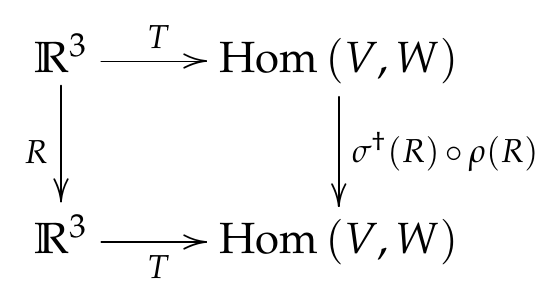
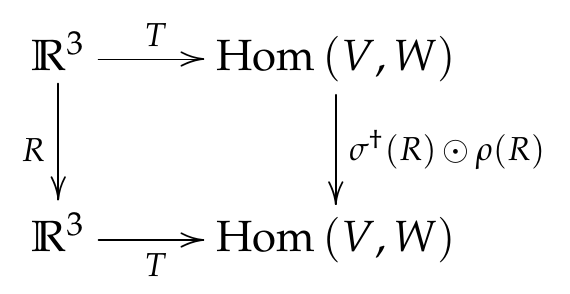
blog post updated

diff --git a/_posts/2019-09-15-operator-harmonic-analysis.md b/_posts/2019-09-15-operator-harmonic-analysis.md
@@ -12,13 +12,13 @@ tags:
 
 *Representation theory is Fourier analysis* (substantially generalized). Given a representation $V$ of a group $G$, it decomposes (under some assumptions on $G$ and $V$) into a direct sum of irreducible parts
 $$V \underset{G}{\cong} \bigoplus_j \bigoplus^{n_j} V_j $$
-with $n_j$ copies of each isomorphic irreducible representation (*irrep*) $V_j$. The canonical Fourier analysis is such a decomposition when the left hand side is the group algebra (introduced below) of $\R$ or $\SO(2) \cong \U(1)$ (for periodic functions) and can be generalized to a large class of groups.
+with $n_j$ copies of each isomorphic irreducible representation (*irrep*) $V_j$. The canonical Fourier analysis is such a decomposition when the left hand side is the group algebra (to be introduced below) of $\R$ or $\SO(2) \cong \U(1)$ (for periodic functions) and can be generalized to a large class of groups.
 
-In this post, I want to talk about the decomposition of representations of the form $\End V = V^* \otimes V$, that is, linear operators over $V$, and in cases that $V$ is described more explicitly such as $V$ being a symmetric power $\Sym^k W$ of the defining representation of [classical groups](https://en.wikipedia.org/wiki/Classical_group#The_classical_groups) $A_n,B_n,C_n,D_n$. The decomposition of $\End V$ in the generic form (1) might very loosely count as a "Fourier analysis" but I will be more ambitious and try to relate such decomposition to actual Fourier analysis, more precisely the decomposition of functions on a space equipped with a $G$-action. As a teaser, for $\SO(3)$ we have that
+In this post, I want to talk about the decomposition of representations of the form $\End V = V^* \otimes V$, the space of linear operators over $V$, especially when $V$ is a symmetric power $\Sym^k W$ of some irrep of [the classical groups](https://en.wikipedia.org/wiki/Classical_group#The_classical_groups) $A_n,B_n,C_n,D_n$. The decomposition of $\End V$ in the generic form (1) might very loosely count as a "Fourier analysis" but I will be more ambitious and find a decomposition that is as similar as possible to the canonical Fourier analysis (but now with non-abelian groups). In particular, there will be a space $X$ with symmetry group $G$ such that the space of functions on $X$ decomposes as $G$-representations *without multiplicity*, that is, $n_j$ is either 0 or 1. As a teaser, for $\SO(3)$ we have that
 $$\begin{align}
-  \lim_{k\to\infty}\End (\Sym^k V) \underset{\SO(3)}{\cong} \bigoplus_{j=0}^{\infty} V_{2j+1},
+  \lim_{k\to\infty}\End (V_{2k+1}) \underset{\SO(3)}{\cong} \bigoplus_{j=0}^{\infty} V_{2j+1} \cong L^2(S^2),
 \end{align}$$
-where the right hand side contains *all* [spherical harmonics](https://en.wikipedia.org/wiki/Spherical_harmonics) without redundancy.
+where $V_{2j+1}$ is the unique $(2j+1)$-dimensional ("spin-$j$") irrep of $\SO(3)$. The point is that the space of linear operators on the left contains *all* [spherical harmonics](https://en.wikipedia.org/wiki/Spherical_harmonics) without redundancy, and thus can be identified with the space of (square-integrable) functions on the sphere $S^2$ on the right.
 
 <div id="toc"></div>
 
@@ -26,9 +26,9 @@ where the right hand side contains *all* [spherical harmonics](https://en.wikipe
 
 ## Morphisms
 
-The standard way to introduce a representation of a group $G$ is as a pair $(\rho,V)$ of a vector space $V$ and a group homomorphism $\rho: G \to \GL(V)$. That is, for $g_1,g_2 \in G$, $\rho(g_1)$ and $\rho(g_2)$ are invertible matrices over a vector space $V$ such that the group structure is respected: $\rho(g_1)\rho(g_2) = \rho(g_1 g_2)$. Group homomorphisms are examples of ubiquitous structure-preserving maps or *morphisms* between mathematical objects. Morphisms for sets are arbitrary (total i.e. defined for all inputs) maps between sets. For vector spaces, we have linear operators. Of course, not only algebraic objects have morphisms. For example, for topological spaces and smooth manifolds, we have continuous maps and smooth maps respectively. (In particular, [homeomorphisms](https://en.wikipedia.org/wiki/Homeomorphism) are isomorphisms between topological spaces, and [diffeomorphisms](https://en.wikipedia.org/wiki/Diffeomorphism) are isomorphisms between smooth manifolds.)
+The standard way to introduce a representation of a group $G$ is as a pair $(\rho,V)$ of a vector space $V$ and a group homomorphism $\rho: G \to \GL(V)$. That is, for $g_1,g_2 \in G$, $\rho(g_1)$ and $\rho(g_2)$ are invertible matrices over a vector space $V$ such that the group structure is respected: $\rho(g_1)\rho(g_2) = \rho(g_1 g_2)$. Group homomorphisms are examples of ubiquitous structure-preserving maps or *morphisms* between mathematical objects. Morphisms for sets are arbitrary functions (total i.e. defined for all inputs) between sets. For vector spaces, we have linear operators. Of course, not only algebraic objects have morphisms. For example, for topological spaces and smooth manifolds, we have continuous maps and smooth maps respectively. (In particular, [homeomorphisms](https://en.wikipedia.org/wiki/Homeomorphism) are isomorphisms between topological spaces, and [diffeomorphisms](https://en.wikipedia.org/wiki/Diffeomorphism) are isomorphisms between smooth manifolds.)
 
-Once we have objects and morphisms, we have a *category*. Formally, a **category** $\mathcal{C}$ is a class of objects and morphisms between them such that there is an identity morphism $1\circ f = f\circ 1 = f$ and the composition of morphisms is associative: $(f \circ g) \circ h = f\ \circ (g \circ h)$. It should be emphasized that all the information contained in the definition is about morphisms; the objects can be anything. The lesson here is that morphisms are as important, if not more, than the objects we want to study. What would be the morphisms in a category of $G$-representations? They are *$G$-equivariant maps* or *intertwiners*. Let $(\rho,V)$ and $(\sigma,W)$ be $G$-representations. A linear map $\varphi:V\to W$ is **$G$-equivariant** if it does not matter if one applies the transformation $g$ on the vector space first or $\varphi$ first. That is, $\varphi\circ\rho(g) = \sigma(g)\circ\varphi$ for all $g \in G$. Pictorially, we say that the following diagram "commutes".
+Once we have objects and morphisms, we have a *category*. Formally, a **category** $\mathcal{C}$ is a class [^1] of objects and morphisms between them such that there is an identity morphism $1\circ f = f\circ 1 = f$ and the composition of morphisms is associative: $(f \circ g) \circ h = f\ \circ (g \circ h)$. It should be emphasized that all the information contained in the definition is about morphisms; the objects can be anything. The lesson here is that morphisms are as important, if not more, than the objects we want to study. What would be the morphisms in a category of $G$-representations? They are *$G$-equivariant maps* or *intertwiners*. Let $(\rho,V)$ and $(\sigma,W)$ be $G$-representations. A linear map $\varphi:V\to W$ is **$G$-equivariant** if it does not matter if one applies the transformation $g$ on the vector space first or $\varphi$ first. That is, $\varphi\circ\rho(g) = \sigma(g)\circ\varphi$ for all $g \in G$. Pictorially, we say that the following diagram "commutes".
 <center>
 <img src="/assets/img/2019/intertwiner.PNG" style="width: 250px;"/>
 </center>
@@ -45,11 +45,11 @@ $$\begin{align}
   (rs)m &= r(sm), \\
   r(m+n) &= rm + rn,
 \end{align}$$
-for all $r,s \in R$ and $m,n \in M$. Now the ring $k[G]$ is the matrix ring formally spanned by $g \in G$ over a field $k$ with the convolution product * inherited from the group multiplication:
+for all $r,s \in R$ and $m,n \in M$. A right $R$-module is similarly defined but with the multiplication from the right. Left and right $R$-modules may not coincide if $R$ is a not commutative.  Now the ring $k[G]$ is the matrix ring formally spanned by $g \in G$ over a field $k$ with the convolution product * inherited from the group multiplication:
 $$\begin{align}
   \left(\sum_{g_1}f_{g_1} g_1 \right) * \left(\sum_{g_2}h_{g_2} g_2 \right) = \sum_{g_1,g} f_{g_1} h_{g_1^{-1}g} g.
 \end{align}$$
- In fact, it is not just a ring but also an algebra (because it is a vector space) called the **group algebra**. Given a $G$-representation, the span of $\rho(g)$ gives a $k[G]$-module. Conversely, given a $k[G]$-module, there is a vector space $V$ over $k$ (because $k\id \in k[G]$), on which the $G$-action gives a group homomorphism $G \to \GL(V)$, that is, a representation. In this language, intertwiners are linear maps that commute with multiplication by scalars in $k[G]$. In other words, they are simply *$k[G]$-linear maps*, generalizing the fact that linear operators (all of which commute with the scalars) are morphisms in the category of vector spaces.
+ In fact, $k[G]$ is not just a ring but also an algebra (because it is a vector space) called the **group algebra**. Given a $G$-representation, the span of $\rho(g)$ gives a $k[G]$-module. Conversely, given a $k[G]$-module, there is a vector space $V$ over $k$ (because $k\id \in k[G]$), on which the $G$-action gives a group homomorphism $G \to \GL(V)$, that is, a representation. In this language, intertwiners are linear maps that commute with multiplication by scalars in $k[G]$. In other words, they are simply *$k[G]$-linear maps*, generalizing the fact that linear operators (all of which commute with the scalars) are morphisms in the category of vector spaces.
 
 ### Schur's lemma
 
@@ -58,11 +58,11 @@ Intertwiners between irreps are completely characterized by **Schur's lemma**, a
 **Lemma 1.** (Schur's lemma)
 
 - (Burnside) *Every intertwiner between irreps is either an isomorphism or zero.*
-- (Schur) *For $k$ algebraically closed, every intertwiner is of the form $k\id$. That is, $\End_G(V) = k$.* [^1]
+- (Schur) *For $k$ algebraically closed, every intertwiner is of the form $k\id$. That is, $\End_G(V) = k$.* [^2]
 
 It can summarized as follows: when $k$ is algebraically-closed, intertwiners between irreps behave like the Kronecker delta
 $$\begin{align}
-  \dim\Hom_G(V,W) \cong
+  \dim\Hom_G(V,W) =
   \begin{cases}
     1, V \cong W, \\
     0, V \not\cong W.
@@ -73,7 +73,7 @@ $$\begin{align}
 ### The meaning of tensor operators
 <!-- It will be convenient to use a more sophisticated definition later on (namely $G$-representations as $K[G]$-modules). To understand mathematical objects, we need to understand structure-preserving maps or *morphisms* between them.-->
 
-I claim that one does not really understand the concept of [tensor operators](https://en.wikipedia.org/wiki/Tensor_operator) in physics until one understands intertwiners. Why? Because *tensor operators are, by definition, intertwiners*. This can be seen by unpacking the seemingly circular definition of tensor operators as "operators that act like tensors". For concreteness, let us think about one of the simplest non-trivial cases of a *vector operator*. Let $(R,\R^3)$ be the defining representation of $\SO(3)$ and $\mathbf{r} \in \R^3$. A **vector operator** $T(\mathbf{r})$ has components $T_j \coloneqq T(\mathbf{r}_j):V\to W, j=1,2,3$ that are linear maps between irreps $(\rho,V),(\sigma,W)$ of $\SO(3)$ (that is, $T_j \in\Hom(V,W) = V^* \otimes W$) such that the $G$-action on $\Hom(V,W)$ (a superoperator $\sigma\dgg(R) \circ \rho(R)$) induces a rotation of $\mathbf{r}$: [^2]
+I claim that one does not really understand the concept of [tensor operators](https://en.wikipedia.org/wiki/Tensor_operator) in physics until one understands intertwiners. Why? Because *tensor operators are, by definition, intertwiners*. This can be seen by unpacking the seemingly circular definition of tensor operators as "operators that act like tensors". For concreteness, let us think about one of the simplest non-trivial cases of a *vector operator*. Let $(R,\R^3)$ be the defining representation of $\SO(3)$ and $\mathbf{r} \in \R^3$. A **vector operator** $T(\mathbf{r})$ has components $T_j \coloneqq T(\mathbf{r}_j):V\to W, j=1,2,3$ that are linear maps between irreps $(\rho,V),(\sigma,W)$ of $\SO(3)$ (that is, $T_j \in\Hom(V,W) = V^* \otimes W$) such that the $G$-action on $\Hom(V,W)$ (a superoperator $\sigma\dgg(R) \odot \rho(R)$ where $\odot$ is a placeholder for the argument) induces a rotation of $\mathbf{r}$: [^3]
 $$\begin{align}
   \sigma\dgg(R)T(\mathbf{r}_j)\rho(R) = R_j{}^k T(\mathbf{r}_k).
 \end{align}$$
@@ -86,34 +86,171 @@ one can see that $T$ is nothing but a linear map that makes the following diagra
 <img src="/assets/img/2019/wigner-eckart.PNG" style="width: 300px;"/>
 </center>
 
-By Schur's lemma, $T$ is an isomorphism between $(R,\R^3)$ and its copy within $\Hom(V,W)$ (if the latter exists). [^3] This justifies how we label the components of the image $T_j$ in the same way we label the components of a vector $\mathbf{r} \in \R^3$. More generally, $\R^3$ can be replaced by any
+By the first part of Schur's lemma, $T$ is an isomorphism between $(R,\R^3)$ and its copy within $\Hom(V,W)$ (if the latter exists). [^4] This justifies labeling the components of the image $T_j$ in the same way as labeling the components of a vector $\mathbf{r} \in \R^3$. More generally, $\R^3$ can be replaced by any
 irrep $U$ of $\SO(3)$.
 
-Does anyone remember what [the Wigner-Eckart theorem](https://en.wikipedia.org/wiki/Wigner%E2%80%93Eckart_theorem) says in the form usually taught in a quantum mechanics class? Not me. But the Wigner-Eckart theorem is simply Schur's lemma applied to the intertwiners between $U$ and $\Hom(V,W)$; the basis-independence of the "reduced matrix element" is just the statement that the tensor operator is proportional to the identity $T = c\id$ (because it commutes with every $G$-action because it is $G$-equivariant) in the block isomorphic to the irrep $U$.
+The second part of Schur's lemma gives the celebrated [Wigner-Eckart theorem](https://en.wikipedia.org/wiki/Wigner%E2%80%93Eckart_theorem).
+Does anyone remember what the theorem says in the form usually taught in a quantum mechanics class? Not me. But by recognizing tensor operators as intertwiners, the theorem is simply the second part of Schur's lemma for intertwiners between $U$ and $\Hom(V,W)$; the basis-independence of the "reduced matrix element" $\av{j',m'||T_k||j,m}$ is just the statement that the tensor operator is proportional to the identity $T = c\id$ (because it commutes with every $G$-action because it is $G$-equivariant) in the block isomorphic to the irrep $U$.
 
-For us, a generalization of *spherical tensor operators* will prove convenient to provide a *weight* (of a Lie algebra)-operator basis for the space of linear operators.
+For us, a generalization of *spherical tensor operators* will prove convenient to provide a Lie-algebraic *weight*-operator (analogous to a weight vector) basis for the space of linear operators.
 
 ## Functors
 
-### The restriction functor
+Given a representation of $G$, we can always restrict it to a representation of a subgroup $H \subset G$. What about the inverse process of constructing a $G$-representation out of an arbitrary $H$-representation? The language of categories and modules will prove useful here. Restriction is a *functor* from the category of $G$-representations to the category of $H$-representations. Given categories $\mathcal C$ and $\mathcal D$, a **(covariant) functor** $\mathcal{F}:\mathcal C\to \mathcal D$ assigns to every object in $\mathcal C$ an object in $\mathcal D$ and to every morphism in $\mathcal C$ a morphism in $\mathcal D$:
+$$\begin{align}
+  \mathcal{F}:\Hom_{\mathcal C}(A,B) \to \Hom_{\mathcal D}(\mathcal{F}(A),\mathcal{F}(B)),
+\end{align}$$
+where $A,B\in\mathcal C$,
+such that the identity and the composition is preserved:
+$$\begin{align}
+  \mathcal{F}(1_{\mathcal C}) &= 1_{\mathcal D}, \\
+  \mathcal{F}(f\circ g) &= \mathcal{F}(f) \circ \mathcal{F}(g).
+\end{align}$$
+Restriction belongs to a simple kind of functors, *forgetful functors* that simply forget information, in this case the structure of $G$. Restriction therefore cannot have a strict inverse. An insight from the category viewpoint is that we can construct the induction functor as a kind of "weak inverse" to the restriction functor called an *adjoint*. More precisely, there is a left adjoint
+$$\begin{align}
+  \Hom_G(\textrm{Ind}\,V,W) \cong \Hom_H(V,\textrm{Res}\,W)
+\end{align}$$
+and a right adjoint
+$$\begin{align}
+  \Hom_G(,V,\textrm{Ind}\W) \cong \Hom_H(\textrm{Res}\,V,W)
+\end{align}$$
+to the restriction functor. [^5] Further, we will see that the distinction between the left and the right adjoint comes precisely from the choice to think of $k[G]$ either as a $(k[G],k[H])$-bi-module or a $(k[H],k[G])$-bi-module.
 
-The reason for introducing $G$-representations as a category is that now I can talk about maps between categories: *functors*.
+hese relationships (14,15), which are so important they have a name: [Frobenius reciprocity](https://en.wikipedia.org/wiki/Frobenius_reciprocity), *define* what the induction is. They are the raison d'être of induced representations.
 
-### Adjoint functors
+<!-- There are only two universal properties: that of being initial and terminal. This translates to the usual way of presenting universal properties in terms of commutative diagrams when one realizes that commutative diagrams are morphisms in a category of morphisms e.g. "[slice category](https://en.wikipedia.org/wiki/Comma_category#Slice_category)".-->
 
-[preorder](https://en.wikipedia.org/wiki/Preorder) [^1], a category with only one morphism $x\to y$, which can be though of as a comparison $x\le y$. For example, the product in this category is the infimum and the coproduct is the supremum. A functor between two preorders $A$ and $B$ is a *monotone function* if it is an order-preserving map
-$$ x \le_A y \implies f(x) \le_B f(b). $$
-A pair of monotone functions $f$ and $G$ is an *adjoint pair* if they satisfy the *Galois connection*:
-$$ f(a) \le_B b \iff a \le_A g(b). $$
-Suppose, for instance, that $A = B = \mathbb{N}$, the natural numbers. The monotone function $x \to 2x$ has no inverse but it does have right and left adjoints: the ceiling $\lceil x/2 \rceil$ and the floor $\lfloor x/2 \rfloor$ respectively. The notion of Galois connection generalizes to that of [adjunction](https://en.wikipedia.org/wiki/Adjoint_functors), an example of which in re
+### The simplest adjoint functor
 
-### Tensor-Hom adjunction
+What does an adjoint functor look like in a category with *only one* morphism? Such a morphism $x\to y$ can be though of as a comparison $x\le y$, a [preorder](https://en.wikipedia.org/wiki/Preorder) if you will [^6]. (I learned this example from John Baez' online [Applied Category Theory Course](https://johncarlosbaez.wordpress.com/2018/04/07/applied-category-theory-course-part-2/).) A functor between two preorders $\mathcal C$ and $\mathcal D$ is a *monotone function* if it is order-preserving:
+$$ a \le_{\mathcal C} b \implies f(a) \le_{\mathcal D} f(b). $$
+A pair of monotone functions $f$ and $g$ is an *adjoint pair* if there is a one-to-one correspondence, the *Galois connection*
+$$ f(a) \le_{\mathcal D} x \iff a \le_{\mathcal C} g(x). $$
+Suppose, for instance, that $\mathcal A = \mathcal B = \mathbb{N}$, the natural numbers. The monotone function $x \to 2x$ has no strict inverse because $y/2$ may not be an integer, but it does have right and left adjoints: the ceiling $\lceil x/2 \rceil$ and the floor $\lfloor x/2 \rfloor$ respectively. (Verify.) In this case, we got a one-to-one correspondence between the morphism in $\mathcal C$ and the morphism in $\mathcal D$. The Galois connection generalizes to the adjunction.
 
-Given a group $G$ and its subgroup $H\subset G$, any representation $V$ of $G$ can be restricted to $V\bigr|{}_H$ of $H$. (Restriction of an irrep is not necessarily irreducible. Think of the restriction to an abelian $H$.)
+### Adjoint to a forgetful functor
 
-### The induction functor
+Many useful constructions, like those of induced representations, are adjoint functors to a forgetful functor. The **free functor** $\mathcal F:$ **Set** $\to$ **Grp** sending a set to its "[free group](https://en.wikipedia.org/wiki/Free_group)". Given a set $S$, $\mathcal F(S)$ is the set of all expressions that can be composed from elements of $S$: every power and inverse of each and every element and (noncommutative) products of them; it is the least constrained group that can be built from elements of $S$ as generators. The categorical way to say this is that the free functor has the universal property that giving a map $\sigma$ from $S$ to some group $G$ is equivalent to giving a unique group homomorphism $\varphi$ from the free group $F(S)$ to $G$. (The empty set gives the trivial group.)
+<center>
+<img src="/assets/img/posts/01-2017/free-group.png" style="width: 200px;"/>
+</center>
+<!-- \begin{align}
+	\xymatrix{
+      S \ar[r]\ar[dr]_{\sigma} & F(S) \ar[d]^{\varphi} \\
+      & G
+	}
+\end{align} -->
 
-### As a free functor
+The free functor sends an object in **Set** to an object in **Grp**, and the forgetful functor sends an object in **Grp** to an object in **Set**. But their composition is not the identity map. Nevertheless, they are a kind of generalized inverses in the sense formalized in the notion of an adjoint functor.
+
+Functors $F: \mathcal{C} \to \mathcal{D}$ and $G: \mathcal{D} \to \mathcal{C}$ are **adjoint functors** if for any $X \in \mathcal{C}$ and $Y \in \mathcal{D}$, there is an [isomorphism](https://en.wikipedia.org/wiki/Adjoint_functors#Hom-set_adjunction)
+$$ \begin{aligned}
+\mathrm{Hom}_{\mathcal{D}} (F(X),Y) \simeq \mathrm{Hom}_{\mathcal{C}} (X,G(Y)).
+\end{aligned} $$
+<center>
+<img src="/assets/img/posts/01-2017/adjoint.png" style="width: 250px;"/>
+</center>
+<!-- \begin{align*}
+	\xymatrix{
+      F(X)\ar[r]^{\mathrm{Hom}_{\mathcal{D}}(F(X),Y)} & Y\ar[d] \\
+      X\ar[u]\ar[r]_{\mathrm{Hom}_{\mathcal{C}}(X,G(Y))} & G(Y)
+	}
+\end{align*} -->
+
+$F$ is called a **left adjoint** of $G$ and $G$ is called a **right adjoint** of $F$.
+
+Why should this be true in the case of the forgetful functor $R$ and the free functor $F$ between **Set** and **Grp**? A group homomorphism $\varphi :F(S) \to G$ is completely determined if we know what it does to each generator of $F(S)$ i.e. each element of $S$. In other words, what $\varphi$ really acts on is the underlying set of $G$. That is, giving $\varphi$ is equivalent to giving $\psi : S \to R(G)$.
+$$ \begin{aligned}
+\mathrm{Hom}_{\bf{Grp}} (F(S),G) \simeq \mathrm{Hom}_{\bf{Set}} (S,R(G))
+\end{aligned} $$
+<center>
+<img src="/assets/img/posts/01-2017/free-functor.png" style="width: 250 px;"/>
+</center>
+so that the free functor is a left adjoint of the forgetful functor.
+
+Possessing an adjoint on one side does not imply possessing an adjoint on the other side, as this example also demonstrates; the forgetful functor $R:{\bf Grp} \to {\bf Set}$ does not have a right adjoint. The desired isomorphism
+$$ \begin{aligned}
+\mathrm{Hom}_{\bf{Grp}} (G,F(S)) \simeq \mathrm{Hom}_{\bf{Set}} (R(G),S)
+\end{aligned}, $$
+<center>
+<img src="/assets/img/posts/01-2017/cofree-functor.png" style="width: 250 px;"/>
+</center>
+
+where now $F$ is a cofree functor, fails when $S$ is an empty set. Given a group homormophism from $G$ to $F(S)$, there is no corresponding map (with a non-empty image) from $R(G)$ to an empty set.
+
+
+
+# Tensor-Hom Adjunction
+
+The tensor product of a right-$R$-module $M$ and a left-$R$-module $N$ is distributive with respective to the abelian group addition:
+$$\begin{align}
+	(m_1 + m_2) \otimes n &= m_1\otimes n + m_2 \otimes n, \\
+	m\otimes (n_1 + n_2) &= m\otimes n_1+ m\otimes n_2,
+\end{align}$$
+and commutes with $R$:
+$$\begin{align}
+	mr \otimes n &= m \otimes rn.
+\end{align}$$
+In essence, $M \otimes_R N$ is the vector space $M \otimes N$ quotient by the relation $mr \otimes n - m \otimes rn$. A tensor product of nonzero modules can turn out to be zero. For example, $\mathbb{Z}/a\mathbb{Z} \otimes_{\mathbb{Z}} \mathbb{Z}/b\mathbb{Z} = 0$ when $a$ and $b$ are coprime.
+
+With an $(A,B)$-module $P$ at the disposal, we can turn an $A$-module into a $B$-module and vice versa. Let $M$ be a left-$A$-module and $N$ be a left-$B$-module,
+- $P \otimes_B N$ is a left-$A$-module.
+- $\mathrm{Hom}_A (P,M)$ is a left-$B$-module.
+
+$\mathrm{Hom}_A (P,M)$ makes sense because both $P$ and $M$ are left-$A$-modules. The obvious $B$-action
+$$	b\varphi(p) = \varphi(pb)$$
+turns $\mathrm{Hom}_A (P,M)$ into a left-$B$-module. One can verify that the action satisfies the axioms for modules, for example,
+$$\begin{align}
+	(b_1 b_2) \varphi(p) = \varphi(p (b_1 b_2)) = b_2 \varphi(p b_1) = b_1 (b_2 \varphi(p)).
+\end{align}$$
+
+The **tensor-hom adjunction** is the natural isomorphism between $A$- and $B$-module-homomorphisms
+$$\begin{align}
+	\mathrm{Hom}_A (P \otimes_B N,M) \simeq  \mathrm{Hom}_B (N,\mathrm{Hom}_A (P,M))\,.
+\end{align}$$
+In other words, the tensor functor $\odot \otimes_B N$ is the left adjoint of the hom functor $\mathrm{Hom}_A (-,M)$, the dash $-$ denoting a placeholder for an argument.
+
+When all the modules are finite-dimensional vector spaces over the same field (so that $\mathrm{Hom}(M,N) \simeq N^* \otimes M$), the tensor-hom adjunction is the trivial statement that taking the dual of $P$ and $N$ at once is equivalent to taking the dual of $N$ first and then $P$. This is essentially the idea of the proof: breaking up a map that takes multiple inputs into a sequence of single-input maps (so-called *currying* in programming). The only thing complicated about the proof is the bookkeeping.
+
+**Proof.**
+
+$\blacksquare$  In one direction, given an $A$-module homomorphism $\varphi$ from $P \otimes_B N$ to $M$, we want to define a corresponding $B$-module homomorphism from $N$ to $\mathrm{Hom}_A (P,M)$. By linearity, $\varphi$ is determined by its values on all rank-one tensors
+  $$\varphi(p \otimes_B n) \in M.$$
+So let us define
+  $$\psi_n(-) \coloneqq \varphi(- \otimes_B n).$$
+The $A$-linearity of $\psi_n$ follows immediately from the $A$-linearity of $\varphi$. The $B$-linearity of $\psi$ is not hard to show either:
+  $$\psi_{bn_1 + n_2}(p) = \varphi(p \otimes_B (bn_1 + n_2)) = \psi_{n_1}(pb) + \psi_{n_2}(p) = b\psi_{n_1}(p) + \psi_{n_2}(p).$$
+(The last equality is just the left-$B$-action on $\mathrm{Hom}_A (P,M)$ \eqref{B-action}).
+
+Conversely, given a $B$-module homomorphism $\psi$ from $N$ to $\mathrm{Hom}_A (P,M)$, define
+  $$\varphi(-_1 \otimes_B -_2) \coloneqq \psi_{-_2} (-_1{}_{})$$
+and extend by linearity. One can verify that $\varphi$ is $A$-linear. Finally, since the constructions of $\psi$ from $\varphi$ and vice versa are obviously inverses of each other, the isomorphism \eqref{tensor-hom} is established. $\Box$
+
+# Extension of scalars
+
+Let $B \subset A$ be two rings with identities. An $A$-module $M$ is also a $B$-module by restricting the scalars to $B$. The resulting module is denoted by $\mathrm{Res} M$ or $\res{M}{A}{B}$ when $A$ and $B$ are needed to be specified.
+
+We ought to have an "inverse" process of extending the scalars. Categorically, an extension of scalars should be an adjoint functor to the restriction. In the context of representation theory, the left and the right adjoints are called **induction** and **coinduction** respectively.
+- Thinking of $A$ as an $(A,B)$-module, $\mathrm{Res} M = \mathrm{Hom}_A (A,M)$. Then by the tensor-hom adjunction,
+	$$\mathrm{Hom}_B (N,\mathrm{Hom}_A (A,M)) \simeq \mathrm{Hom}_A (A \otimes_B N,M),$$
+	the left adjoint of Res is $\ind{N}{B}{A} = A \otimes_B N$.
+- Thinking of $A$ as a $(B,A)$-module, $\mathrm{Res} M = A \otimes_A M$. Then by the tensor-hom adjunction,\footnote{The roles of $A$ (resp. $M$) and $B$ (resp. $N$) are reversed.}
+	$$\mathrm{Hom}_B (A \otimes_A M,N) \simeq  \mathrm{Hom}_A (M,\mathrm{Hom}_B (A,N)),$$
+	the right adjoint of Res is $\coind{N}{B}{A} = \mathrm{Hom}_B (A,N)$\,.
+\end{itemize}
+
+To obtain a (co)induced representation from a (co)induced module, we just set the two rings to be the group algebras $\mathbb{C}[K]$ and $\mathbb{C}[G]$, where $K$ is a subgroup of $G$. Let $(\rho,V)$ be a $G$-representation and $(\sigma,W)$ be a $K$-representation. Then
+$$\begin{align}
+	\ind{W}{K}{G} = \mathbb{C}[G] \otimes_{\mathbb{C}[K]} W, &&
+	\coind{W}{K}{G} &= \mathrm{Hom}_{\mathbb{C}[K]} (\mathbb{C}[G],W),
+\end{align}$$
+The tensor-hom adjuntion becomes what is known as **Frobenius reciprocity**
+
+<!--:\footnote{The module homomorphisms are restricted to morphisms of representations i.e. intertwiners} -->
+$$\begin{align}
+	\mathrm{Hom}_K (W,\res{V}{G}{K}) &\simeq \mathrm{Hom}_G (\ind{W}{K}{G},V), \\
+	\mathrm{Hom}_K (\res{V}{G}{K},W) &\simeq \mathrm{Hom}_G (V,\coind{W}{K}{G}).
+\end{align}$$
 
 # Tensor product representations
 
@@ -131,13 +268,22 @@ The Borel-Weil theorem states that every irreducible representation of a Lie gro
 
 ### Hermitian symmetric spaces
 
-[^1]: The assumption that $k$ is algebraically closed is necessary. Consider a representation of $\Z_4$ on $\R^2$ as discrete rotations with the generator
+[^1]: The word "class" cannot be replaced by "set". For example, there is no set of all sets ([Russell's paradox]((https://en.wikipedia.org/wiki/Russell%27s_paradox))).
+
+[^2]: The assumption that $k$ is algebraically closed is necessary. Consider a representation of $\Z_4$ on $\R^2$ as discrete rotations with the generator
 $\rho(1) = \begin{pmatrix}
 0 & -1 \\
 1 & 0
 \end{pmatrix}$.
 It is irreducible because $\rho(1)$ cannot be diagonalized over $\R$. But every $\rho(g)$ commutes with matrices of the form $a\id + b\rho(1)$ for some $a,b \in \R$, a two-dimensional real vector space.
 
-[^2]: We think of $R$ as both a rotation matrix (the defining representation of $\SO(3)$) and an abstract group element. We also assume the [Einstein summation convention](https://en.wikipedia.org/wiki/Einstein_notation).
+[^3]: We think of $R$ as both a rotation matrix (the defining representation of $\SO(3)$) and an abstract group element. We also assume the [Einstein summation convention](https://en.wikipedia.org/wiki/Einstein_notation).
 
-[^3]: Why can't there be more than one copy of $(R,\R^3)$ in $\Hom(V,W)$? Because every tensor product $V\otimes W$ of irreducible $\SO(3)$-representations decomposes *without multiplicity*. Wigner gave a characterization of some of these so-called *simply reducible groups* which was then [generalized by Mackey](https://projecteuclid.org/euclid.pjm/1103039895).
+[^4]: Why can't there be more than one copy of $(R,\R^3)$ in $\Hom(V,W)$? Because every tensor product $V\otimes W$ of irreducible $\SO(3)$-representations decomposes *without multiplicity*. Wigner gave a characterization of some of these so-called *simply reducible groups* which was then [generalized by Mackey](https://projecteuclid.org/euclid.pjm/1103039895).
+
+[^5]: The name "adjoint" comes from the similarity to how the adjoint of a linear operator in an inner product space is defined:
+$\av{x,Ay} = \av{A\dgg x,y}$.
+
+[^6]: A [partial order](https://en.wikipedia.org/wiki/Partially_ordered_set) is a preorder that is also "antisymmetric": $a \le b$ and $b \le a$ implies $a=b$. Also for the curious, the product in this category is the infimum and the coproduct is the supremum.
+
+[^7]:
